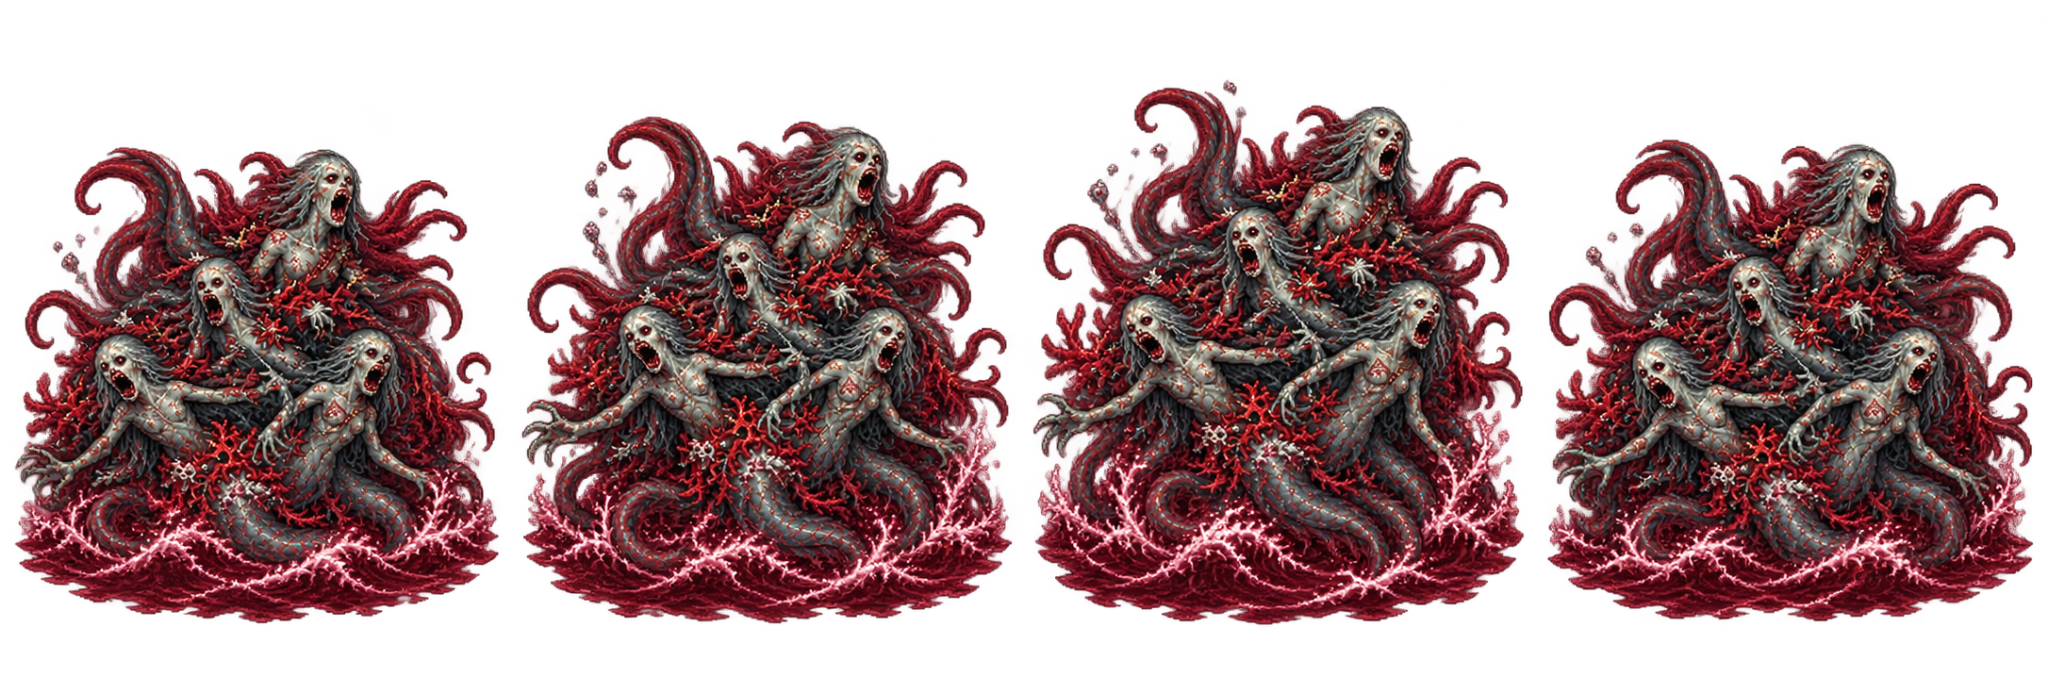
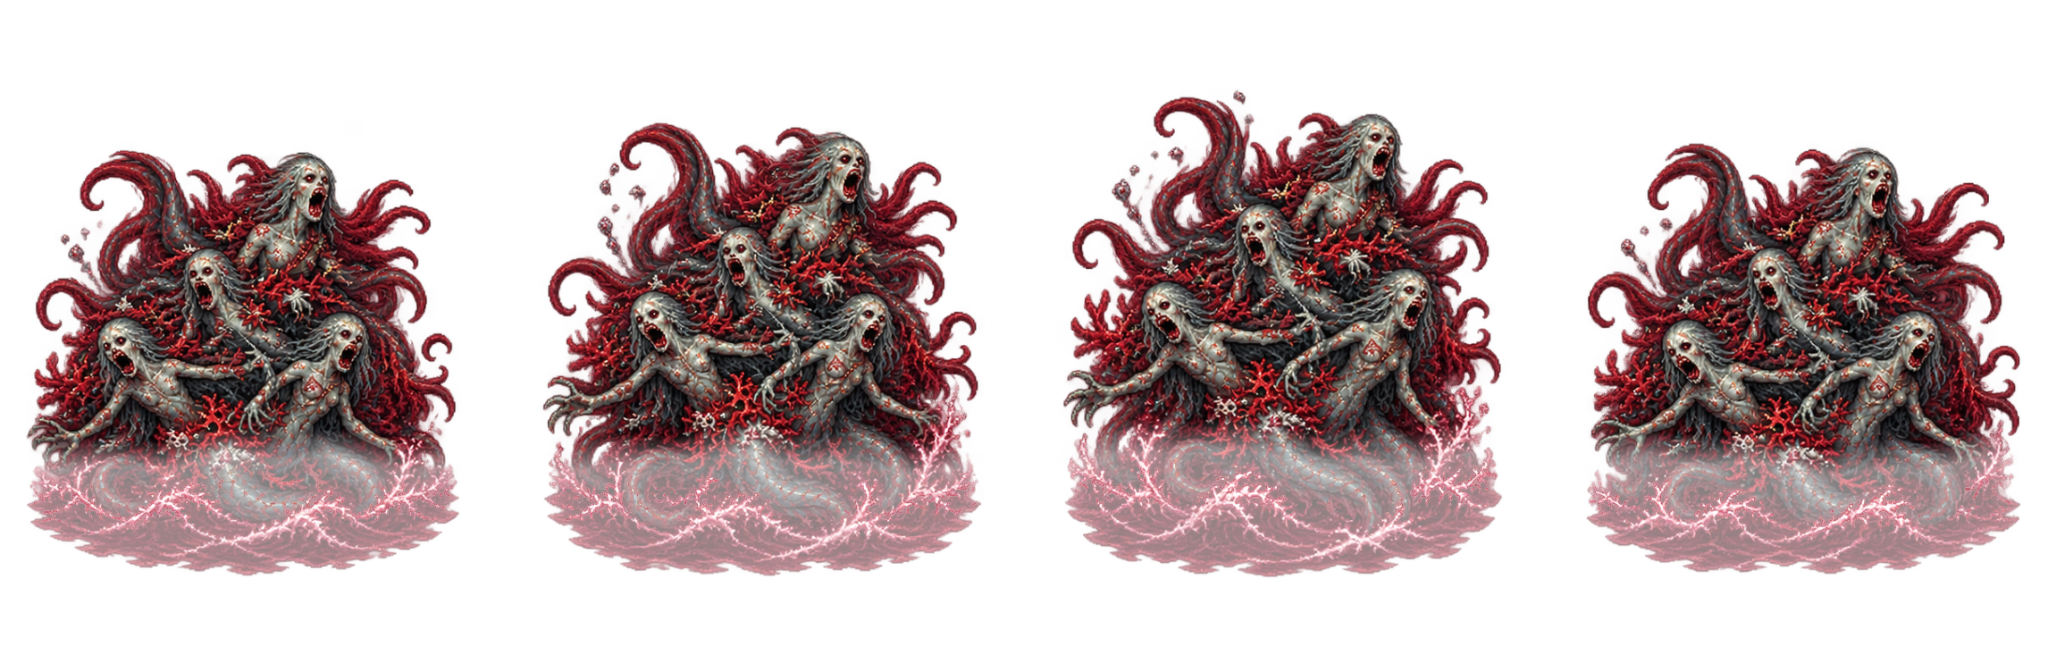
asset(drowned): publish submerged RGBA four-frame sprite
Replace exact user-provided beast_drowned.png; correct 512x646 Phaser frames and source height; bump PWA v88; refresh pixel hash and regression tests.

diff --git a/sw.js b/sw.js
@@ -1,4 +1,4 @@
-const CACHE_NAME='omar-mar-de-sangue-v87-coral-submerso-fixed-20261027';
+const CACHE_NAME='omar-mar-de-sangue-v88-drowned-submerso-20261027';
 const ASSETS=["./","./index.html","./asset-audit.html","./PwaStatus.js","./Game.js","./SeaOceanV3.js","./assets/tiles/sea-v3/sea_chunk_01_base.webp","./assets/tiles/sea-v3/sea_chunk_02_base.webp","./assets/tiles/sea-v3/sea_chunk_03_base.webp","./assets/tiles/sea-v3/sea_chunk_04_base.webp","./SeaEffects.js","./SeaWeather.js","./SeaMenus.js","./SeaPoliticalEvents.js","./SeaIslands.js","./SeaAtlas.js","./SeaGunnery.js","./SeaImpulse.js","./SeaCannonChargeFx.js","./SeaContracts.js","./SeaPerformance.js","./SeaPerformanceCompare.js","./SeaPixelPolish.js","./SeaSaveTransfer.js","./PortUI.js","./PortUI.css","./PortThemeAbyss.css","./style.css","./phaser.min.js","./manifest.webmanifest","./assets/abyss/coral_horror.png","./assets/abyss/cult_barge.png","./assets/abyss/dagon_eye.png","./assets/abyss/dreadnought.png","./assets/abyss/drowned_choir.png","./assets/abyss/kraken.png","./assets/abyss/kraken_tentacle.png","./assets/abyss/shell_guardian.png","./assets/abyss/temple_turtle.png","./assets/fx/cannon_charge_sparks.png","./assets/fx/blast_0.png","./assets/fx/blast_1.png","./assets/fx/blast_2.png","./assets/fx/blast_3.png","./assets/fx/foam_0.png","./assets/fx/foam_1.png","./assets/fx/foam_2.png","./assets/fx/foam_3.png","./assets/fx/gold_0.png","./assets/fx/gold_1.png","./assets/fx/gold_2.png","./assets/fx/gold_3.png","./assets/fx/muzzle_0.png","./assets/fx/muzzle_1.png","./assets/fx/muzzle_2.png","./assets/fx/muzzle_3.png","./assets/fx/muzzle_4f.png","./assets/fx/shrine_glow.png","./assets/fx/smoke_0.png","./assets/fx/smoke_1.png","./assets/fx/smoke_2.png","./assets/fx/smoke_3.png","./assets/fx/splash_0.png","./assets/fx/splash_1.png","./assets/fx/splash_2.png","./assets/fx/splash_3.png","./assets/fx/splash_4f.png","./assets/fx/splinters_0.png","./assets/fx/splinters_1.png","./assets/fx/splinters_2.png","./assets/fx/splinters_3.png","./assets/fx/splinters_4f.png","./assets/fx/violet_0.png","./assets/fx/violet_1.png","./assets/fx/violet_2.png","./assets/fx/violet_3.png","./assets/islands/island_daegon.png","./assets/islands/island_demeter.png","./assets/islands/island_monastery.png","./assets/islands/island_reef.png","./assets/islands/island_ruin.png","./assets/islands/island_wreck.png","./assets/items/treasure_chest.png","./assets/items/treasure_coin.png","./assets/items/treasure_crate.png","./assets/menu_bg.png","./assets/ui/hud-helm-landscape.png","./assets/ui/hud-combat-landscape.png","./assets/sprites/enemy_admiral.png","./assets/sprites/enemy_bombard.png","./assets/sprites/enemy_corsair.png","./assets/sprites/enemy_court_ship.png","./assets/sprites/enemy_galleon.png","./assets/sprites/enemy_ram.png","./assets/sprites/enemy_spectral.png","./assets/player/mar_de_sangue_navio_proa_baixo_20_evolucoes.png","./assets/tiles/sea_base.png","./assets/tiles/sea_blood.png","./assets/tiles/sea_foam.png","./assets/tiles/sea_mist.png","./assets/ui/command_console.png","./assets/ui/command_console_analog.png","./assets/v15/beast_coral.png","./assets/abyss/dagon.png","./assets/v15/beast_eel_swim.webp","./assets/v15/beast_drowned.png","./assets/v15/beast_kraken.png","./assets/v15/beast_tentacle.png","./assets/v15/fx_frame_00.png","./assets/v15/fx_frame_01.png","./assets/v15/fx_frame_02.png","./assets/v15/fx_frame_03.png","./assets/v15/fx_frame_04.png","./assets/v15/fx_frame_05.png","./assets/v15/fx_frame_06.png","./assets/v15/fx_frame_07.png","./assets/v15/fx_frame_08.png","./assets/v15/fx_frame_09.png","./assets/v15/fx_frame_10.png","./assets/v15/fx_frame_11.png","./assets/v15/fx_frame_12.png","./assets/v15/fx_frame_13.png","./assets/v15/fx_frame_14.png","./assets/v15/fx_frame_15.png","./assets/v15/ship_admiral.png","./assets/v15/ship_blood.png","./assets/v15/ship_chapel.png","./assets/v15/ship_flagship.png","./assets/v15/ship_merchant.png","./assets/v15/ship_ram.png","./assets/v15/ship_royal.png","./assets/v15/ship_sloop.png","./assets/v15/ship_spectral.png","./assets/v15/ship_wrecked.png","./icons/icon-192.png","./icons/icon-512.png"];
 self.addEventListener('install',event=>event.waitUntil(caches.open(CACHE_NAME).then(c=>c.addAll(ASSETS)).then(()=>self.skipWaiting())));
 self.addEventListener('activate',event=>event.waitUntil(caches.keys().then(keys=>Promise.all(keys.filter(k=>k!==CACHE_NAME && k.startsWith('omar-mar-de-sangue')).map(k=>caches.delete(k)))).then(()=>self.clients.claim())));

diff --git a/Game.js b/Game.js
@@ -298,9 +298,9 @@ class SeaBoot extends Phaser.Scene {
         this.load.spritesheet('tentacle-animated', 'assets/v15/beast_tentacle.png', {
             frameWidth:512, frameHeight:682, endFrame:3
         });
-        // Cortejo dos Afogados: original RGBA, quatro quadros horizontais de 512 x 682.
+        // Cortejo dos Afogados submerso: RGBA original, quatro quadros 512 x 646.
         this.load.spritesheet('drowned-animated', 'assets/v15/beast_drowned.png', {
-            frameWidth:512, frameHeight:682, endFrame:3
+            frameWidth:512, frameHeight:646, endFrame:3
         });
         // Original-resolution transparent serpent sheet: 4 frames, 512 × 565 px each.
         // Its head is at the BOTTOM: paintEnemies offsets its artwork by 180 degrees.
@@ -817,10 +817,10 @@ class Game extends Phaser.Scene {
         const animated682 = (type==='olho_dagon' && tex==='dagon-eye-animated') ||
             (type==='dagon' && tex==='dagon-animated') ||
             (type==='recife' && tex==='reef-devourer-animated') ||
-            (type==='afogados' && tex==='drowned-animated') ||
             (type==='kraken' && tex==='kraken-animated') ||
             (type==='tentaculo' && tex==='tentacle-animated');
-        const sourceH = type==='coral' && tex==='coral-animated' ? 644 :
+        const sourceH = type==='afogados' && tex==='drowned-animated' ? 646 :
+            type==='coral' && tex==='coral-animated' ? 644 :
             animated682 ? 682 : (this.textures.get(tex).getSourceImage().height || 160);
         const supernatural = ['enguia','afogados','coral','recife','caranguejo','tartaruga','tentaculo','kraken','dagon','olho_dagon'].includes(type);
         const heightFactor = supernatural ? (elite ? 2.12 : 2.02) : ['foe-galleon','foe-admiral'].includes(tex) ? 2.35 : tex === 'foe-ram' ? 2.15 : 2.45;
